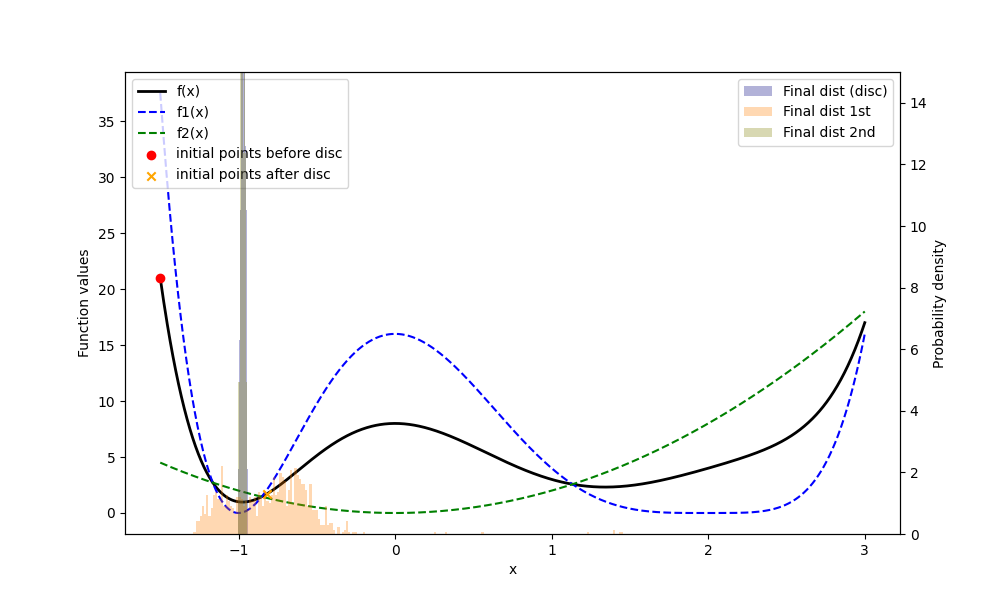
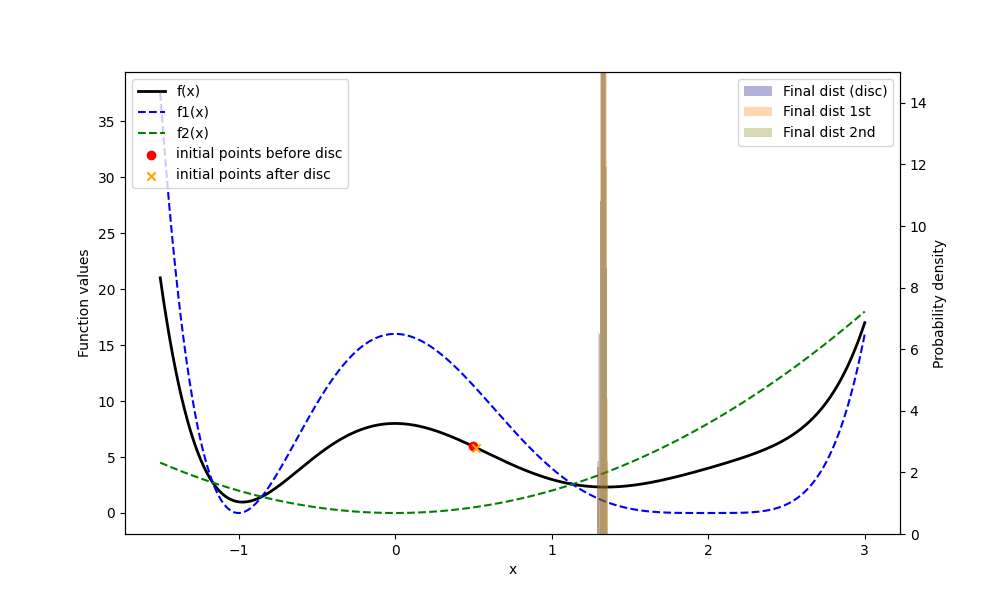
add different final time

diff --git a/Thesis/Code_2025-11-22/Poly/main.py b/Thesis/Code_2025-11-22/Poly/main.py
@@ -453,7 +453,7 @@ def run_experiment_configuration(
     if args.wandb:
         wandb.init(
             project='Poly2',
-            name=f'{args.optimizer}{args.regime}_{initial_points_before_disc.item():.2f}_sigma{sigma_value:.2f}_BatchSize{args.batch_size_simulation}_tau{tau}_c{args.c}_time{args.final_time}',
+            name=f'{args.optimizer}{args.regime}_{initial_points_before_disc.item():.2f}_sigma{sigma_value:.2f}_BatchSize{args.batch_size_simulation}_tau{tau}_c{args.c}_time{final_time}',
             config=vars(args)| {'initial point bf disc' : initial_points_before_disc.item()  },
             notes='Comparison of discrete RMSProp with SDE approximations for shallow NN on California Housing dataset with comparison of loss, validation loss, norm of the theta and v and distribution of the final loss and final theta.',
             save_code=True
@@ -524,7 +524,7 @@ def main():
         for initial_point in args.initial_points:
             set_seed(args.starting_seed)
             initial_points_before_disc = torch.tensor([initial_point])
-            final_time = args.final_time if torch.abs(initial_points_before_disc) > 0.2 else args.final_time * 5
+            final_time = args.final_time if torch.abs(initial_points_before_disc) > 0.2 else args.final_time * 20
             run_experiment_configuration(
                 args, tau, args.sigma, args.points, initial_points_before_disc, final_time
             )
